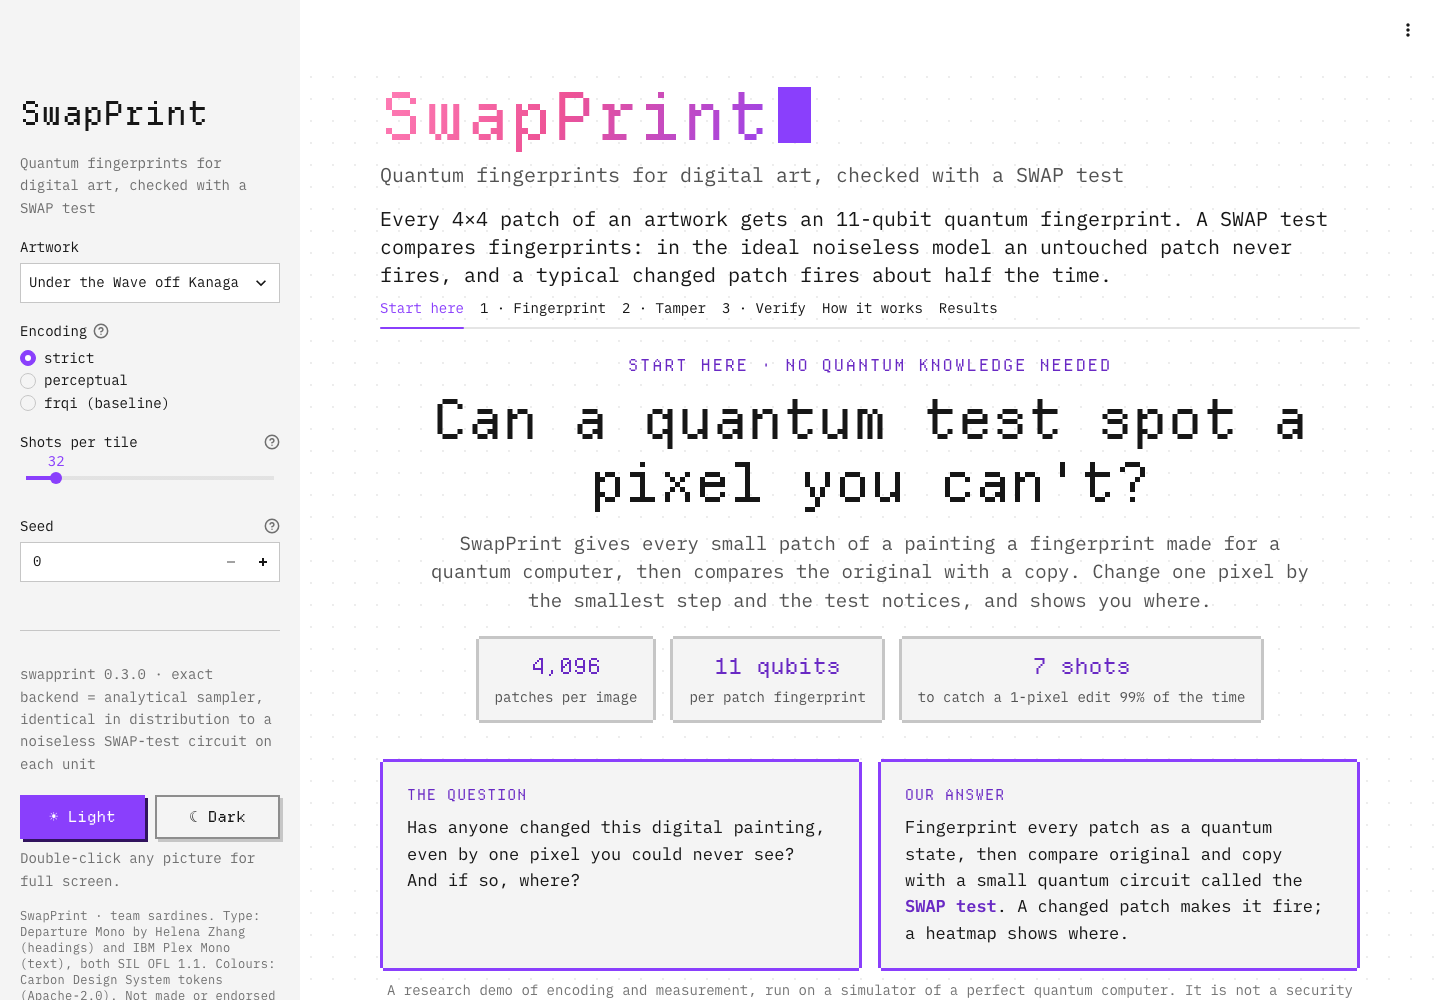
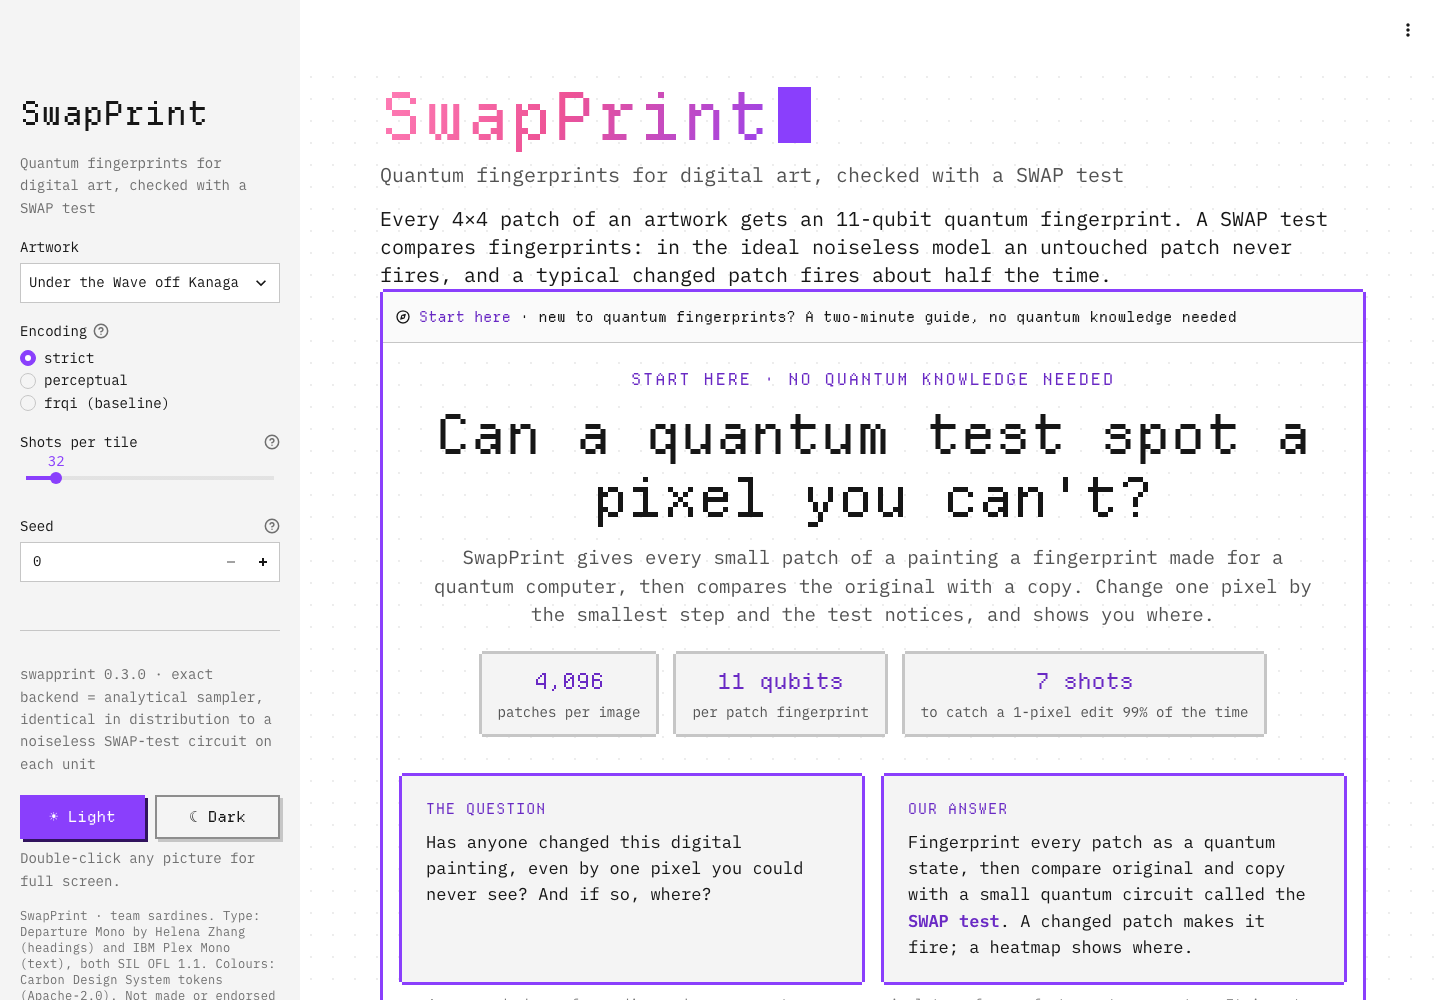
app: Start here moves out of the tabs into a welcome section above them (Rashida's suggestion, Ansh's call)
Open on arrival; collapsing it brings the tabs up under the title, and it stays collapsed across reruns.
?welcome=closed starts it collapsed (scripted recordings: app/demo/record_demo.py uses it). In-text tab links
now scroll the tab bar into view; #go-start opens Start here. Screenshots retaken; README section updated.

Changed region(s): [[0.25, 0.279, 0.9688, 1.0], [0.2812, 0.403, 0.375, 0.465]]

diff --git a/app/pixel.css b/app/pixel.css
@@ -144,11 +144,17 @@ hr { border: 0; height: var(--px); background: repeating-linear-gradient(90deg, 
 /* the hidden component that adds double-click full screen takes no space */
 [data-testid="stElementContainer"]:has(iframe[height="0"]), .element-container:has(iframe[height="0"]) { display: none; }
 
-/* Start here: centred and welcoming */
-[role="tabpanel"]:has(.sp-hero) { max-width: 1000px; margin-left: auto; margin-right: auto; }
-[role="tabpanel"]:has(.sp-hero) h3, [role="tabpanel"]:has(.sp-hero) h4 { text-align: center; }
-[role="tabpanel"]:has(.sp-hero) h3::before { content: ""; }
-[role="tabpanel"]:has(.sp-hero) [data-testid="stCaptionContainer"] { text-align: center; }
+/* Start here: a welcome section above the tabs (an expander), centred, with a pixel frame in the accent colour */
+[data-testid="stExpander"]:has(.sp-hero) details { border: 0 !important; margin: var(--px) var(--px) 18px var(--px);
+  box-shadow: 0 calc(-1 * var(--px)) 0 0 var(--accent), 0 var(--px) 0 0 var(--accent),
+              calc(-1 * var(--px)) 0 0 0 var(--accent), var(--px) 0 0 0 var(--accent); }
+[data-testid="stExpander"]:has(.sp-hero) summary { font-size: 17px; padding-top: 14px; padding-bottom: 14px; }
+[data-testid="stExpander"]:has(.sp-hero) summary strong { font-family: var(--font-pixel) !important; font-size: 19px;
+  letter-spacing: 0.02em; color: var(--accent-text); font-weight: 400; }
+[data-testid="stExpanderDetails"]:has(.sp-hero) > div { max-width: 1000px; margin-left: auto; margin-right: auto; }
+[data-testid="stExpanderDetails"]:has(.sp-hero) h3, [data-testid="stExpanderDetails"]:has(.sp-hero) h4 { text-align: center; }
+[data-testid="stExpanderDetails"]:has(.sp-hero) h3::before { content: ""; }
+[data-testid="stExpanderDetails"]:has(.sp-hero) [data-testid="stCaptionContainer"] { text-align: center; }
 .sp-hero { text-align: center; margin: 8px auto 28px auto; max-width: 880px; }
 .sp-hero .kicker { color: var(--accent-text); font-size: 16px; letter-spacing: 0.12em; }
 .sp-hero .big { font-size: 55px; line-height: 1.15; color: var(--text-primary); margin: 10px 0 14px 0; }

diff --git a/app/page.js b/app/page.js
@@ -22,16 +22,23 @@
     if (now - lastTap < 320 && toggleFullscreen(e.target)) { e.preventDefault(); lastTap = 0; } else { lastTap = now; }
   }, {passive: false});
 
-  // 2. tab links
-  const TABS = {start: 'start here', fingerprint: 'fingerprint', tamper: 'tamper', verify: 'verify',
-                how: 'how it works', results: 'results'};
+  // 2. tab links. The Start here section sits above the tabs, so a link scrolls the tab bar (not the page top) into
+  //    view; #go-start opens Start here and scrolls up to it.
+  const TABS = {fingerprint: 'fingerprint', tamper: 'tamper', verify: 'verify', how: 'how it works', results: 'results'};
   const goTab = (slug) => {
+    if (slug === 'start') {
+      const box = doc.querySelector('[data-testid="stExpander"] details');
+      if (!box) return false;
+      if (!box.open) box.querySelector('summary').click();
+      setTimeout(() => box.scrollIntoView({behavior: 'smooth', block: 'start'}), 50);
+      return true;
+    }
     const want = TABS[slug];
     const tab = [...doc.querySelectorAll('[role="tab"]')].find((t) => t.innerText.toLowerCase().includes(want));
     if (!tab) return false;
     tab.click();
-    const main = doc.querySelector('[data-testid="stMain"]') || doc.querySelector('.stMain');
-    setTimeout(() => (main ? main.scrollTo({top: 0, behavior: 'smooth'}) : tab.scrollIntoView()), 50);
+    const bar = tab.closest('[role="tablist"]') || tab;
+    setTimeout(() => bar.scrollIntoView({behavior: 'smooth', block: 'start'}), 50);
     return true;
   };
 

diff --git a/app/streamlit_app.py b/app/streamlit_app.py
@@ -342,10 +342,7 @@ st.markdown('<div class="lead">Every 4×4 patch of an artwork gets an 11-qubit q
             'patch fires about half the time.</div>',
             unsafe_allow_html=True)
 
-tabs = st.tabs(["Start here", "1 · Fingerprint", "2 · Tamper", "3 · Verify", "How it works", "Results"])
-
-
-# ---------------------------------------------------------------- Start here
+# ---------------------------------------------------------------- Start here (welcome section above the tabs)
 
 
 @safe
@@ -1093,16 +1090,21 @@ def tab_results():
         st.info("No figures yet.")
 
 
-with tabs[0]:
+# Start here sits above the tabs, open on arrival; collapsing it brings the tabs up. ?welcome=closed starts it
+# collapsed (used by the scripted demo recordings).
+with st.expander("**Start here** · new to quantum fingerprints? A two-minute guide, no quantum knowledge needed",
+                 expanded=st.query_params.get("welcome") != "closed", icon=":material/explore:"):
     tab_start()
-with tabs[1]:
+
+tabs = st.tabs(["1 · Fingerprint", "2 · Tamper", "3 · Verify", "How it works", "Results"])
+with tabs[0]:
     tab_fingerprint()
-with tabs[2]:
+with tabs[1]:
     tab_tamper()
-with tabs[3]:
+with tabs[2]:
     tab_verify()
     check_a_file()
-with tabs[4]:
+with tabs[3]:
     tab_how()
-with tabs[5]:
+with tabs[4]:
     tab_results()

diff --git a/app/demo/record_demo.py b/app/demo/record_demo.py
@@ -195,7 +195,7 @@ def main() -> None:
         page = ctx.new_page()
         page.set_default_timeout(15_000)
         t0 = time.monotonic()  # video time 0 is ~ here
-        page.goto(url)
+        page.goto(url + "/?welcome=closed")  # Start here collapsed, so the takes open on the tabs
         page.get_by_role("tab", name="1 · Fingerprint").wait_for(timeout=120_000)
         wait_idle(page)
         for i, step in enumerate(steps, 1):

diff --git a/app/README_section.md b/app/README_section.md
@@ -17,7 +17,7 @@ Then open http://localhost:8501. Use Python 3.11–3.13, the same as the core (s
 
 | Tab | What you do and see |
 |---|---|
-| **Start here** | A plain-language guide for someone new to quantum fingerprinting: what the app does, a 60-second walk-through, experiments to try with encoding, shots and seed, a glossary, and links to the papers. |
+| **Start here** (above the tabs) | Opens on arrival; collapse it to bring the tabs up. A plain-language guide for someone new to quantum fingerprinting: what the app does, a 60-second walk-through, experiments to try with encoding, shots and seed, a glossary, and links to the papers. |
 | **1 · Fingerprint** | The canonical 256×256 image, the numbers behind strict mode (4096 tiles × 11 qubits; 384 bits → 2048-bit codeword → 11-qubit sign state), and a **fingerprint mosaic**: one colour per tile from its codeword. It looks like noise, and an edited tile jumps to a different colour. **Register** downloads the fingerprint as `.npz`. |
 | **2 · Tamper** | Click the image to choose a spot, then apply an edit: nudge one pixel by ±1, recolour a pixel, paint a patch, write text, copy-move, splice from another artwork, hide a message in the lowest bits, or change brightness, contrast, JPEG quality or size. Edit history with Undo and Reset, and a download of the edited PNG. **Surprise me** makes a hidden, invisible one-pixel edit for the game; **Challenge a friend** hides your own edits so someone else can play. |
 | **3 · Verify** | **Spot the edit:** guess where the hidden edit is, then press Verify. The verdict (`CHANGE DETECTED` / `NO CHANGE DETECTED`; in perceptual mode, `CONTENT CHANGE …`) comes with the number of shots, a **heatmap** of flagged tiles (magenta, colour-blind safe), a zoom on the most suspicious tile, and a **live SWAP test** that plays that tile's shots one by one, with a running estimate of overlap² and a 95% Wilson interval. **Run on Qiskit Aer** builds the real SWAP-test circuit for any tile you click (ancilla or destructive: strict uses 23 qubits or 22, perceptual 13 or 12, FRQI 15 or 14) and shows Aer's estimate next to the exact prediction, plus the hardware-compiled gate count. **Compare encodings** puts the same edit through strict, perceptual and FRQI: a one-pixel edit takes about 2 shots on average to the first 1 in strict mode; 99% detection needs 7 shots, versus 15,534,513 in FRQI. **Check a file** verifies an image against a registered `.npz` without uploading the original (a strict `.npz` can itself reconstruct the canonical image). |
